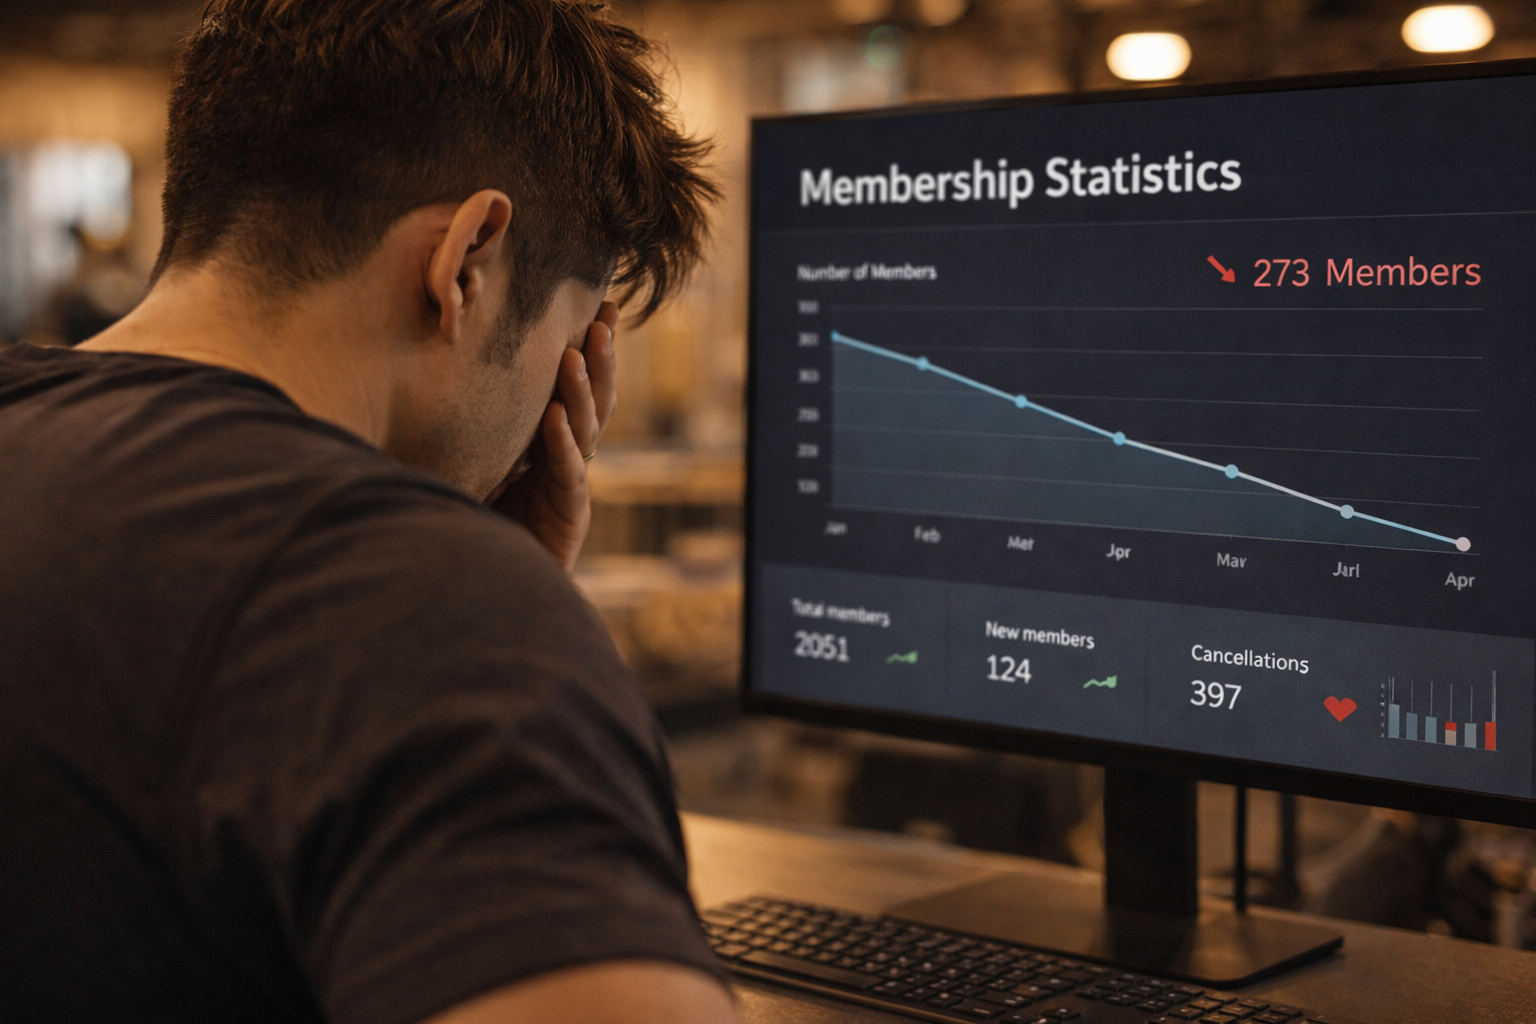
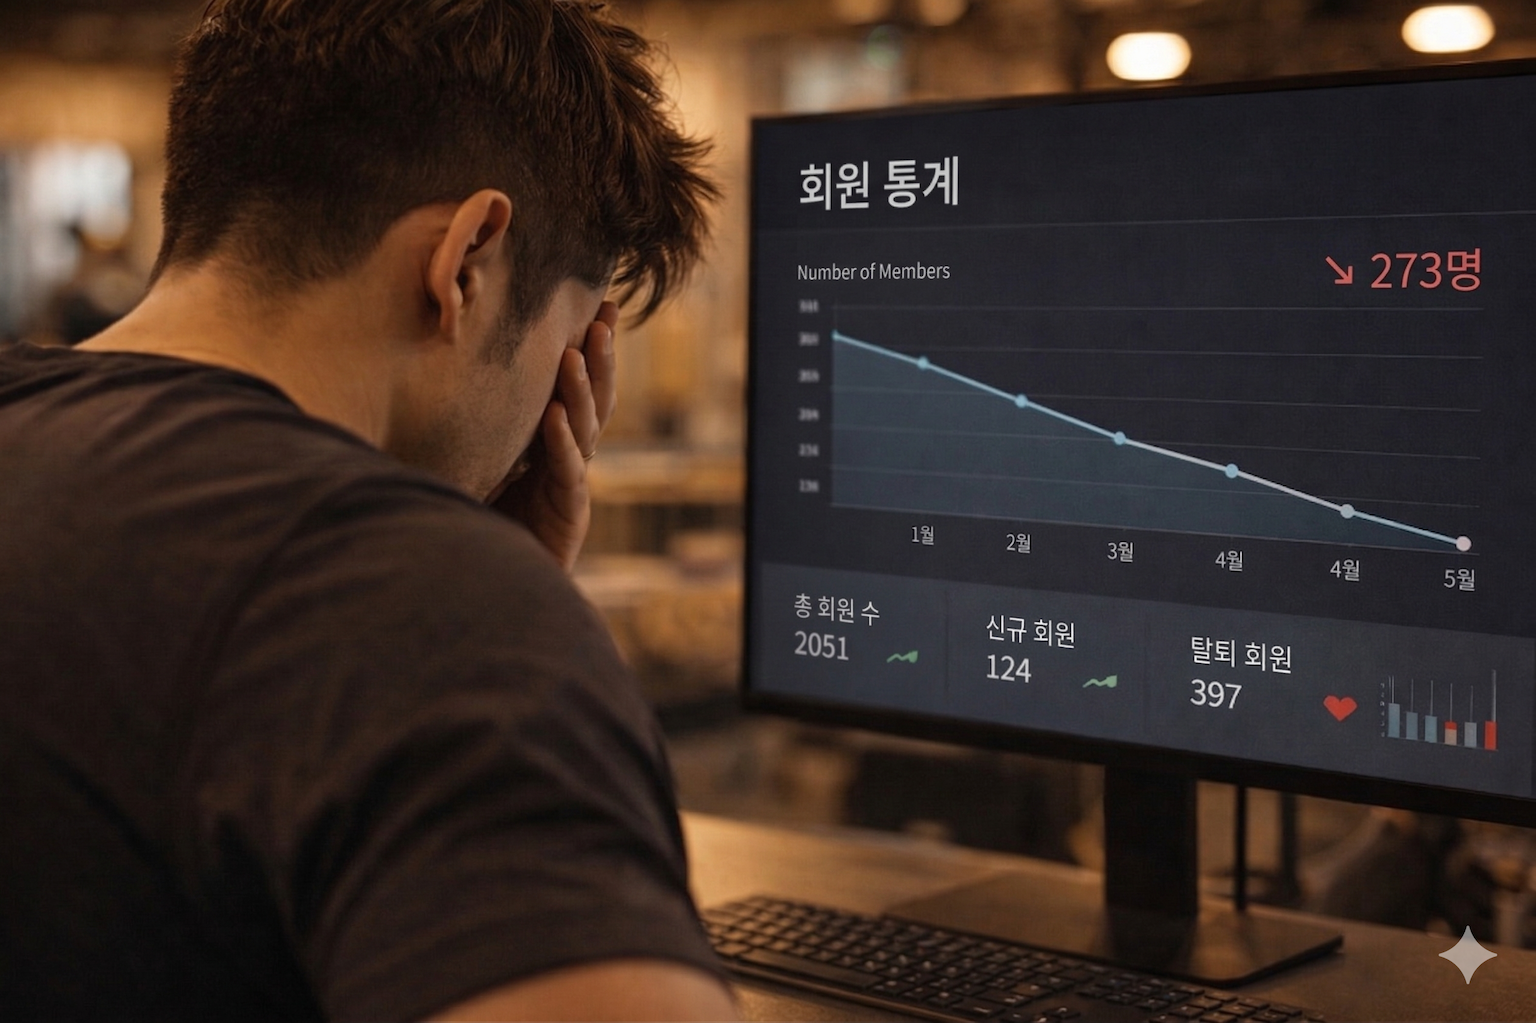
refactor: 타이틀 및 디스크립션 통일화

diff --git a/index.html b/index.html
@@ -376,8 +376,10 @@
           border-radius: 18px;
         }
         .b2c-proof-copy {
-          margin-top: 20px;
-          color: var(--white);
+          max-width: 620px;
+          margin: 20px auto 0;
+          color: var(--text-secondary);
+          text-align: center;
         }
         .b2c-proof-feature {
           max-width: 1120px;
@@ -680,8 +682,13 @@
         }
         .feature-summary-body p {
           font-size: 14px;
-          color: var(--text-muted);
+          color: var(--text-secondary);
           line-height: 1.75;
+        }
+        .feature-summary-body {
+          max-width: 620px;
+          margin: 12px auto 0;
+          text-align: center;
         }
         .feature-summary-body p + p {
           margin-top: 12px;
@@ -727,10 +734,12 @@
           color: #7dd3fc;
         }
         .effect-proof-body {
-          margin-top: 12px;
+          max-width: 620px;
+          margin: 12px auto 0;
           font-size: 16px;
           line-height: 1.7;
-          color: var(--white);
+          color: var(--text-secondary);
+          text-align: center;
         }
         .effect-proof-gallery {
           margin-top: 28px;
@@ -781,7 +790,13 @@
           margin-bottom: 16px; line-height: 1.3;
         }
         .cta-section h2 em { color: var(--accent); font-style: normal; }
-        .cta-section p { font-size: 16px; color: var(--text-muted); margin-bottom: 40px; }
+        .cta-section p {
+          max-width: 620px;
+          margin: 0 auto 40px;
+          font-size: 16px;
+          color: var(--text-secondary);
+          text-align: center;
+        }
 
         /* SECTION HEADING */
         h2.section-title {
@@ -789,7 +804,15 @@
           font-weight: 700; letter-spacing: -0.03em; line-height: 1.3;
           margin-bottom: 14px;
         }
-        .section-desc { font-size: 16px; color: var(--text-muted); max-width: 520px; line-height: 1.75; }
+        .section-desc {
+          max-width: 620px;
+          margin-left: auto;
+          margin-right: auto;
+          font-size: 16px;
+          color: var(--text-secondary);
+          line-height: 1.75;
+          text-align: center;
+        }
 
         /* DIVIDER */
         .divider { border: none; border-top: 1px solid var(--border); }
@@ -988,7 +1011,7 @@
     <div class="hero-inner">
         <div class="section-label hero-section-label fade-up">문제점</div>
         <h1 class="hero-title fade-up" style="animation-delay:0.1s">
-            사장님,<br>이런 문제 겪고 있지 않나요?
+            혹시<br>이런 문제 겪고 있지 않나요?
         </h1>
         <div class="hero-problem-list fade-up" style="animation-delay:0.18s">
             <div class="hero-problem-item">
@@ -1091,8 +1114,10 @@
             <p class="effect-proof-body">
                 1,500명 이상의 회원이 참여한 오운완 앱에서,<br>
                 모임 참여율이 개인 대비 <strong>10배</strong> 높았어요.<br>
-                센터 안에서도 회원들이 스스로 참여를 만들어가는<br>
-                건강한 참여 문화를 기대 할 수 있어요.
+            </p>
+            <p class="effect-proof-body">
+                센터 안에서도 회원들이 스스로 참여하는 문화로<br>
+                회원 유지율을 높일 수 있어요.
             </p>
         </div>
         <div class="effect-proof-gallery">
@@ -1124,7 +1149,7 @@
 <!-- FEATURES -->
 <section class="feature-overview-section">
     <div class="section-label fade-up">제공 기능</div>
-    <h2 class="feature-overview-title fade-up">아래 서비스를 제공해요</h2>
+    <h2 class="feature-overview-title fade-up">아래 기능들을 제공해요</h2>
     <div class="feature-tag tag-now fade-up">우선 제공</div>
     <div class="feature-grid feature-grid--six" style="margin-top: 8px;">
         <div class="feature-card fade-up">
@@ -1183,9 +1208,7 @@
         <div class="feature-summary-content">
             <h3>인증할수록<br>우리 센터가 노출돼요.</h3>
             <div class="feature-summary-body">
-                <p>회원들이 남긴 인증 피드가 쌓일수록 우리 센터의 분위기와 참여 문화가 자연스럽게 드러납니다.<br>
-                    오운완 안에서 센터를 처음 보는 사람에게도 활기 있는
-                    공간으로 보일 수 있어요.</p>
+                <p>회원들이 남긴 인증피드가 콘텐츠가 되어 마케팅 효과가 돼요.</p>
             </div>
         </div>
         <div class="feature-summary-visual">
